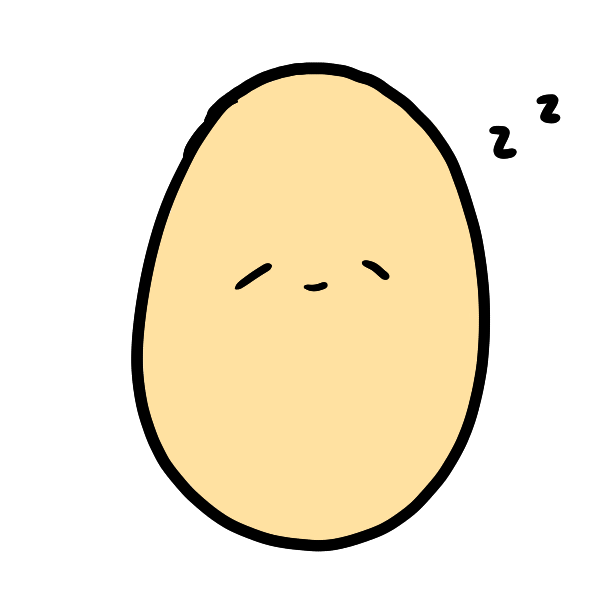
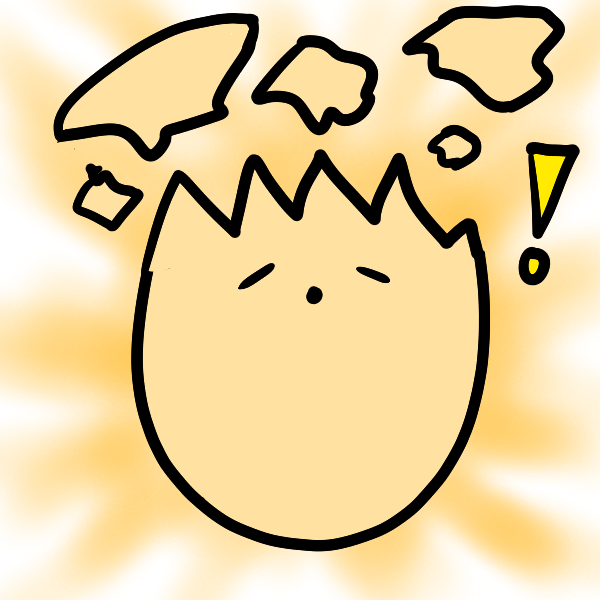
new pet

diff --git a/src/components/evolvingpopup/evolvingpopup.js b/src/components/evolvingpopup/evolvingpopup.js
@@ -8,11 +8,12 @@ import ChooseConfetti from "../choose confetti/chooseconfetti";
 import { useCallback, useContext, useEffect, useState } from "react";
 import { PetsContext, UserInfoContext } from "@/utils/contexts";
 import { petImg } from "@/utils/tools";
+import { newPet } from "@/api/PetAPI";
 
-export default function EvolvingPopup({setIsEvolvingPopupOpen, setIsChoosePetPopupOpen,openChoosePet}) {
+export default function EvolvingPopup({ setIsEvolvingPopupOpen, setIsChoosePetPopupOpen, openChoosePet }) {
 
-  const {userInfo} = useContext(UserInfoContext);
-  const {pets} = useContext(PetsContext);
+  const { userInfo, refreshUserInfo } = useContext(UserInfoContext);
+  const { pets, refreshPets } = useContext(PetsContext);
   const [currentPet, setCurrentPet] = useState({ type: '', level: 0 });
 
   useEffect(() => {
@@ -33,24 +34,39 @@ export default function EvolvingPopup({setIsEvolvingPopupOpen, setIsChoosePetPop
     setCurrentPet(userPet);
 
     if (userPet.level == 1) {
-      
       setIsChoosePetPopupOpen(true);
     }
+    else if (userPet.level == 5) {
+      newPet();
+      refreshPets();
+      refreshUserInfo();
+    }
+
+
   }, [userInfo, pets]);
 
   return (
     <Paper className={styles.EvolvingPopup} sx={{ backgroundColor: (theme) => theme.palette.primary.main, boxShadow: `0px 0.5rem 5rem rgba(114, 201, 255, 0.9)`, }}>
       <div className={styles.PopupContent}>
-        <div className={styles.EvolvingImage}>
-          <img className={styles.PetImage} src={petImg(currentPet.type, currentPet.level - 1, currentPet.xp)} alt="Previous Pet" />
-          {/* Minus one because this is post-levelup */ }
-          <KeyboardDoubleArrowUpIcon sx={{ fontSize: 100, color: 'rgba(255, 114, 154, 1)' }} />
-          <img className={styles.PetImage} src={petImg(currentPet.type, currentPet.level, currentPet.xp)} alt="Evolved Pet" />
-        </div>
-        <Typography variant="h6">Your pet is...</Typography>
-        <Typography variant="h1">EVOLVING!</Typography>
-        <ChooseConfetti text="🎉 Celebrate! 🎉"/>
-        <Button variant="contained" color="secondary" sx={{mt: 2}} onClick={handleContinue}>Continue</Button>
+        {
+          currentPet.level == 5 ? <div><Typography variant="h6">Your pet has maxed out! You get a new egg</Typography>
+            <div className={styles.EvolvingImage}>
+              <img className={styles.PetImage} src={petImg("egg", 0, 0)} alt="New Pet" />
+            </div>
+          </div>
+            :
+            <div>
+              <div className={styles.EvolvingImage}>
+                <img className={styles.PetImage} src={petImg(currentPet.type, currentPet.level - 1, currentPet.xp)} alt="Previous Pet" />
+                <KeyboardDoubleArrowUpIcon sx={{ fontSize: 100, color: 'rgba(255, 114, 154, 1)' }} />
+                <img className={styles.PetImage} src={petImg(currentPet.type, currentPet.level, currentPet.xp)} alt="Evolved Pet" />
+              </div>
+              <Typography variant="h6">Your pet is...</Typography>
+              <Typography variant="h1">EVOLVING!</Typography>
+            </div>
+        }
+        <ChooseConfetti text="🎉 Celebrate! 🎉" />
+        <Button variant="contained" color="secondary" sx={{ mt: 2 }} onClick={handleContinue}>Continue</Button>
       </div>
     </Paper>
   );

diff --git a/api/pet.js b/api/pet.js
@@ -1,7 +1,7 @@
 const express = require("express");
 const Router = express.Router();
 const pool = require("../model/pool");
-const { autoSignin } = require('./auth');
+const { autoSignin, createNewPet } = require('./auth');
 const generateRandomId = require("../utils/security").generateRandomId;
 
 Router.post("/choose", async (req, res) => {
@@ -65,7 +65,7 @@ Router.post("/choose", async (req, res) => {
       );
 
       res.status(200).send({
-        success: true, 
+        success: true,
         status: 200,
         message: "Pet selected!",
         data: { pet },
@@ -97,6 +97,57 @@ Router.get("/", async (req, res) => {
     }
     catch (err) {
       console.log("Fetching Pet Info Error:", err);
+      return res.status(500).send({
+        success: false,
+        status: 500,
+        message: "Unexpected error",
+        error: { reason: "Unexpected error" },
+      });
+    }
+  })
+});
+
+Router.post('/new', async (req, res) => {
+  autoSignin(req, res, async (userId) => {
+    try {
+      const connection = pool.promise();
+
+      const [petInfo] = await connection.query(`SELECT pet FROM users WHERE user_id = ?`, [userId]);
+      // Get pet level
+      const [petLevel] = await connection.query(`SELECT level FROM pets WHERE pet_id = ?`, [petInfo[0].pet]);
+
+      if (petInfo[0].pet != null && petLevel[0].level < 5) {
+        return res.status(400).send({
+          success: false,
+          status: 400,
+          message: "Not high enough level!",
+          error: { reason: "Not high enough level!" },
+        });
+      }
+
+      // Set pet back to level 4
+      await connection.query(`UPDATE pets SET level = 4 WHERE pet_id = ?`, [petInfo[0].pet]);
+
+      const petResult = await createNewPet({ user_id: userId });
+
+      if (!petResult.success) {
+        return res.status(500).send({
+          success: false,
+          status: 500,
+          message: "Error creating pet",
+          error: { reason: "Error creating pet" },
+        });
+      }
+
+      res.status(200).send({
+        success: true,
+        status: 200,
+        message: "New pet created!",
+        data: petResult.data,
+      });
+    }
+    catch (err) {
+      console.log("Creating New Pet Error:", err);
       return res.status(500).send({
         success: false,
         status: 500,

diff --git a/src/api/ActivitiesAPI.js b/src/api/ActivitiesAPI.js
@@ -9,16 +9,16 @@ async function getUserActivities() {
   return { data: {} }
 }
 
-async function addUserActivity({type, time}) {
-  const res = await requestHandler(AxiosInstance.post(`/activities/add`, {type, time}));
+async function addUserActivity({ type, time }) {
+  const res = await requestHandler(AxiosInstance.post(`/activities/add`, { type, time }));
   if (res.status == 200) {
     return { data: res.data };
   }
   return { data: {} }
 }
 
-async function beginUserActivity({type}) {
-  const res = await requestHandler(AxiosInstance.post(`/activities/begin`, {type}));
+async function beginUserActivity({ type }) {
+  const res = await requestHandler(AxiosInstance.post(`/activities/begin`, { type }));
   if (res.status == 200) {
     return { data: res.data };
   }
@@ -26,15 +26,15 @@ async function beginUserActivity({type}) {
 }
 
 async function endUserActivity(waterDrank = 0) {
-  const res = await requestHandler(AxiosInstance.post(`/activities/end`, {waterDrank}));
+  const res = await requestHandler(AxiosInstance.post(`/activities/end`, { waterDrank }));
   if (res.status == 200) {
     return { data: res.data };
   }
   return { data: {} }
 }
 
-async function skipUserActivity({type}) {
-  const res = await requestHandler(AxiosInstance.post(`/activities/skip`, {type}));
+async function skipUserActivity({ type }) {
+  const res = await requestHandler(AxiosInstance.post(`/activities/skip`, { type }));
   if (res.status == 200) {
     return { data: res.data };
   }

diff --git a/src/components/choosepetpopup/choosepetpopup.js b/src/components/choosepetpopup/choosepetpopup.js
@@ -60,17 +60,11 @@ export default function ChoosePetPopup({ setIsChoosePetPopupOpen }) {
               if (pet === "Cat") {
                 return <img className={styles.PetImage} src="/Cat Pet/Cat 1.png" alt="Cat" />
               } else if (pet === "Dog") {
-                return <div>
-                  <Typography variant="h1">Dog</Typography>
-                </div>
+                return <img className={styles.PetImage} src="/Dog Pet/Dog 1.png" alt="Dog" />
               } else if (pet === "Fly") {
-                return <div>
-                  <Typography variant="h1">Fly</Typography>
-                </div>
+                return <img className={styles.PetImage} src="/Fly Pet/Fly 1.png" alt="Fly" />
               } else if (pet === "Emoji") {
-                return <div>
-                  <Typography variant="h1">Emoji</Typography>
-                </div>
+                return <img className={styles.PetImage} src="/Emoji Pet/Smirk Emoji.gif" alt="Emoji" />
               }
             })()
           }

diff --git a/src/utils/tools.js b/src/utils/tools.js
@@ -25,16 +25,16 @@ async function requestHandler(request) {
 
 const petImg = (type, level, xp) => {
   if (type === "egg") {
-    if (xp >= 5) {
-      return `/Egg Pet/Egg 2.gif`;
+    if (xp >= 5 && level == 0) {
+      return `/Egg Pet/Egg cracked.png`;
     }
-    return `/Egg Pet/Egg ${level}.gif`;
+    return `/Egg Pet/Egg ${level}.png`;
   } else if (type === "cat") {
-    return `/Cat Pet/Cat ${level}.gif`;
+    return `/Cat Pet/Cat ${level}.png`;
   } else if (type === "dog") {
-    return `/Dog Pet/Dog ${level}.gif`;
+    return `/Dog Pet/Dog ${level}.png`;
     } else if (type === "fly") {
-      return `/Fly Pet/Fly ${level}.gif`;
+      return `/Fly Pet/Fly ${level}.png`;
     } else if (type === "emoji") {
     return `/Emoji Pet/Smirk Emoji.gif`;
   }

diff --git a/api/activity.js b/api/activity.js
@@ -82,7 +82,8 @@ Router.post('/end', async (req, res) => { // TODO: handle water breaks that have
       let duration = Math.floor((Date.now() / 1000) - timestamp);
 
       if (type == "water") {
-        let drankAmount = req.body.drankAmount ?? 1;
+        let drankAmount = req.body.waterDrank ?? 1;
+        drankAmount = Number(drankAmount);
         if (!Number.isFinite(drankAmount)) {
           return res.status(400).send({
             success: false,

diff --git a/src/components/water stats/waterStats.js b/src/components/water stats/waterStats.js
@@ -34,7 +34,7 @@ export default function WaterStats() {
         if (activities[i].timestamp * 1000 < Date.now() - 6 * 24 * 60 * 60 * 1000) continue;
         if (activities[i].type === 'water') {
           const dayIndex = (new Date(activities[i].timestamp * 1000).getDay() - startDay + 6) % 7;
-          newWaterData[dayIndex] += activities[i].time
+          newWaterData[dayIndex] += activities[i].time;
         }
       }
 

diff --git a/src/api/PetAPI.js b/src/api/PetAPI.js
@@ -17,4 +17,12 @@ async function choosePet({ pet, petName }) {
   return { data: {} }
 }
 
-export { getPetInfo, choosePet };
+async function newPet() {
+  const res = await requestHandler(AxiosInstance.post(`/pet/new`));
+  if (res.status == 200) {
+    return { data: res.data };
+  }
+  return { data: {} }
+}
+
+export { getPetInfo, choosePet, newPet };

diff --git a/src/components/current pet/currentPet.js b/src/components/current pet/currentPet.js
@@ -27,12 +27,6 @@ export default function CurrentPet() {
     setCurrentPet(pet);
 
     let petSrc = petImg(pet.type, pet.level, pet.xp);
-    if (pet.type == "egg") {
-      if (pet.xp >= 5) {
-        petSrc = "/Egg Pet/Egg 2.png";
-      }
-    }
-
     setImgSrc(petSrc);
   }, [pets, userInfo]);
 

diff --git a/api/auth.js b/api/auth.js
@@ -276,5 +276,6 @@ Router.get("/logout", function (req, res) {
 
 module.exports = {
   autoSignin,
+  createNewPet,
   Router,
 };
